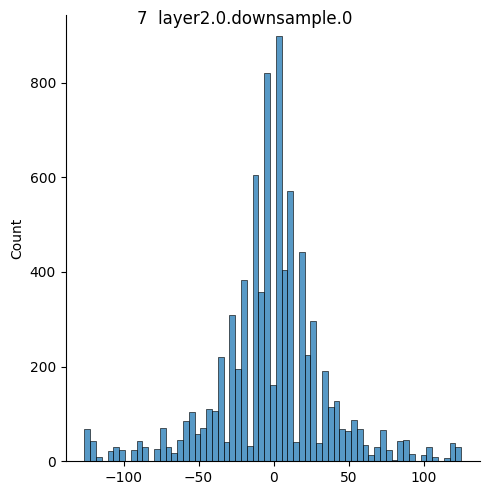
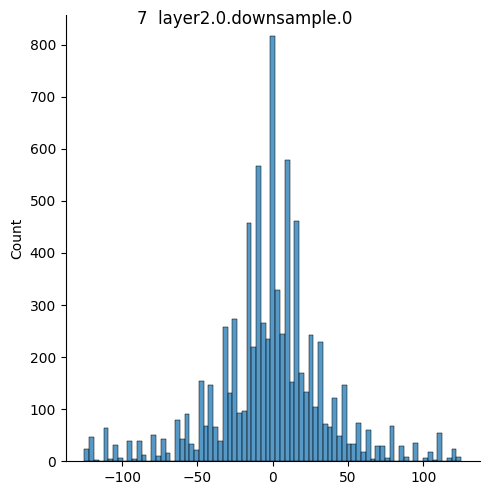
weight distribution of new method

Changed region(s): [[0.0613, 0.0303, 0.9509, 0.9697]]

diff --git a/software/util.py b/software/util.py
@@ -157,10 +157,7 @@ def bitFlip_signMagnitude(group_q, group_qb, w_bitwidth=8, zero_column_required=
     
     # no need to prune
     if zero_column_required <= 0: 
-        if return_binary:
-            return group_binary
-        else:
-            return group_q
+        return group_q
     
     # continue
     # test_until is a pointer to specify which column to test until
@@ -197,7 +194,7 @@ def bitFlip_signMagnitude(group_q, group_qb, w_bitwidth=8, zero_column_required=
     return group_int_new
 
 
-def bitFlip_twosComplement(group_q, group_qb, w_bitwidth=8, zero_column_required=4, h_distance_target=0):
+def bitFlip_twosComplement(group_q, group_qb, group_qb_bitWave, w_bitwidth=8, zero_column_required=4, h_distance_target=0):
     '''
     Apply bit-flip to a group of quantized weights in 2's complement format
     '''
@@ -244,8 +241,9 @@ def bitFlip_twosComplement(group_q, group_qb, w_bitwidth=8, zero_column_required
     if test_bitVert_strategy:
         # prune columns [prune_until:], we should test columns [prune_until:] to minimize MSE
         # since the value should be the same for all weight columns [prune_until:] in a group, the value can be adjusted arbitrarily
+        group_binary_bitVert = group_binary.clone()
         if prune_until == 1:
-            int_test_bitVert = twosComplement_to_int(group_binary, w_bitwidth=w_bitwidth)
+            int_test_bitVert = group_q.clone()
             int_test_new_bitVert = torch.zeros_like(int_test_bitVert)
             error_bitVert = 1e7
             for value in range(-2**(w_bitwidth-2), 2**(w_bitwidth-2)):
@@ -259,7 +257,7 @@ def bitFlip_twosComplement(group_q, group_qb, w_bitwidth=8, zero_column_required
                     break
             group_int_new = int_test_new_bitVert
         else:
-            column_test = group_binary[prune_until:]
+            column_test = group_binary_bitVert[prune_until:]
             int_test_bitVert = binary_to_int(column_test, w_bitwidth=w_bitwidth-prune_until)
             int_test_new_bitVert = torch.zeros_like(int_test_bitVert)
             error_bitVert = 1e7
@@ -275,42 +273,44 @@ def bitFlip_twosComplement(group_q, group_qb, w_bitwidth=8, zero_column_required
                 else:
                     break
 
+    error_bitWave = 0
     if test_bitWave_strategy:
         zero_column_idx = [idx if idx < prune_until else 0 for idx in zero_column_idx]
         test_until = max(zero_column_idx) + 1
-        group_binary = int_to_signMagnitude(group_q, w_bitwidth=w_bitwidth)
+        group_binary_bitWave = group_qb_bitWave.clone()
     
         # prune columns [prune_until:], we should test columns [test_until:] to minimize MSE
         # since the columns between test_until and prune_until can be adjusted arbitrarily as long as [prune_until:] are all zero
-        column_test = group_binary[test_until:]
+        column_test = group_binary_bitWave[test_until:]
         int_test_bitWave = binary_to_int(column_test, w_bitwidth=w_bitwidth-test_until)
         #print(prune_until, test_until)
         int_test_new_bitWave = torch.zeros_like(int_test_bitWave)
 
         for i, value in enumerate(int_test_bitWave.tolist()):
             new_value = 0
-            error_bitWave = 1e7
+            error_single_value = 1e7
             for n in range(2**(prune_until-test_until)):
                 tmp_value = n * 2.**(w_bitwidth-prune_until)
                 new_error = ((tmp_value - value)**2)
                 #print('new error', new_error)
-                if new_error < error_bitWave:
+                if new_error < error_single_value:
                     #print(tmp_value)
-                    error_bitWave = new_error
+                    error_single_value = new_error
                     #print(error)
                     new_value = tmp_value
                 else: 
+                    error_bitWave += error_single_value
                     break
             int_test_new_bitWave[i] = new_value
     
-    if error_bitVert < error_bitWave:
+    if (error_bitVert < error_bitWave) or (not test_bitWave_strategy):
         column_test_new = int_to_binary(int_test_new_bitVert, w_bitwidth=w_bitwidth-prune_until)
-        group_binary[prune_until:] = column_test_new
-        group_int_new = twosComplement_to_int(group_binary, w_bitwidth=w_bitwidth)
+        group_binary_bitVert[prune_until:] = column_test_new
+        group_int_new = twosComplement_to_int(group_binary_bitVert, w_bitwidth=w_bitwidth)
     else:
         column_test_new = int_to_binary(int_test_new_bitWave, w_bitwidth=w_bitwidth-test_until)
-        group_binary[test_until:] = column_test_new
-        group_int_new = twosComplement_to_int(group_binary, w_bitwidth=w_bitwidth)
+        group_binary_bitWave[test_until:] = column_test_new
+        group_int_new = signMagnitude_to_int(group_binary_bitWave, w_bitwidth=w_bitwidth)
 
     return group_int_new
     
@@ -356,7 +356,9 @@ def process_signMagnitude_fc(wq_int, w_bitwidth=8, group_size=16, pruned_column_
 def process_twosComplement_conv(wq_int, w_bitwidth=8, group_size=16, pruned_column_num=4, 
                                 device='cpu', h_distance_target=0):
     wqb_twosComplement = int_to_twosComplement(wq_int, w_bitwidth=w_bitwidth, device=device)
+    wqb_signMagnitude  = int_to_signMagnitude(wq_int, w_bitwidth=w_bitwidth, device=device)
     wqb_twosComplement = wqb_twosComplement.to('cpu')
+    wqb_signMagnitude  = wqb_signMagnitude.to('cpu')
     wq_int_new = torch.zeros_like(wq_int)
     K, C, W, H = wq_int.shape # output channel, input channel, kernel width, kernel height
     if C < group_size:
@@ -368,7 +370,8 @@ def process_twosComplement_conv(wq_int, w_bitwidth=8, group_size=16, pruned_colu
                 for c in range(C // group_size):  # input channel 
                     group_q = wq_int[k, c*group_size:(c+1)*group_size, w, h]
                     group_qb = wqb_twosComplement[:, k, c*group_size:(c+1)*group_size, w, h]
-                    group_q_new = bitFlip_twosComplement(group_q, group_qb, w_bitwidth=w_bitwidth,
+                    group_qb_bitWave = wqb_signMagnitude[:, k, c*group_size:(c+1)*group_size, w, h]
+                    group_q_new = bitFlip_twosComplement(group_q, group_qb, group_qb_bitWave, w_bitwidth=w_bitwidth,
                                                          zero_column_required=pruned_column_num, 
                                                          h_distance_target=h_distance_target)
                     wq_int_new[k, c*group_size:(c+1)*group_size, w, h] = group_q_new
@@ -378,7 +381,9 @@ def process_twosComplement_conv(wq_int, w_bitwidth=8, group_size=16, pruned_colu
 def process_twosComplement_fc(wq_int, w_bitwidth=8, group_size=16, pruned_column_num=4, 
                               device='cpu', h_distance_target=0):
     wqb_twosComplement = int_to_twosComplement(wq_int, w_bitwidth=w_bitwidth, device=device)
+    wqb_signMagnitude  = int_to_signMagnitude(wq_int, w_bitwidth=w_bitwidth, device=device)
     wqb_twosComplement = wqb_twosComplement.to('cpu')
+    wqb_signMagnitude  = wqb_signMagnitude.to('cpu')
     wq_int_new = torch.zeros_like(wq_int)
     K, C = wq_int.shape # output channel, input channel, kernel width, kernel height
     if C < group_size:
@@ -388,7 +393,8 @@ def process_twosComplement_fc(wq_int, w_bitwidth=8, group_size=16, pruned_column
         for c in range(C // group_size):  # input channel 
             group_q = wq_int[k, c*group_size:(c+1)*group_size]
             group_qb = wqb_twosComplement[:, k, c*group_size:(c+1)*group_size]            
-            group_q_new = bitFlip_twosComplement(group_q, group_qb, w_bitwidth=w_bitwidth,
+            group_qb_bitWave = wqb_signMagnitude[:, k, c*group_size:(c+1)*group_size]
+            group_q_new = bitFlip_twosComplement(group_q, group_qb, group_qb_bitWave, w_bitwidth=w_bitwidth,
                                                  zero_column_required=pruned_column_num,
                                                  h_distance_target=h_distance_target)
             wq_int_new[k, c*group_size:(c+1)*group_size] = group_q_new

diff --git a/software/resnet18_bit_prune.py b/software/resnet18_bit_prune.py
@@ -24,7 +24,7 @@ w_bitwidth = 8
 
 def main():
     device = torch.device("cuda" if torch.cuda.is_available() else "cpu")
-    hamming_distance = 0.5
+    hamming_distance = 1.5
     for N in range(4, 5):
         pruned_column_num = N
         file = open(f'resnet18_loss_report_g{GROUP_SIZE}_h{math.floor(hamming_distance)}_c{pruned_column_num}.txt', 'w')
@@ -33,7 +33,7 @@ def main():
             weight_test = weight_list[i]
             print(f'Layer {name_list[i]}')
             file.writelines(f'Layer {name_list[i]} \n')
-            print(weight_test.unique())
+            #print(weight_test.unique())
             for func in [0, 1]:
                 if func == 0:
                     format = 'Sign Magnitude'
@@ -43,7 +43,7 @@ def main():
                     elif len(weight_test.shape) == 2:
                         weight_test_new = process_signMagnitude_fc(weight_test, w_bitwidth=w_bitwidth, group_size=GROUP_SIZE, 
                                                                 pruned_column_num=pruned_column_num, device=device)
-                    print(weight_test_new.unique())
+                    #print(weight_test_new.unique())
                 else:
                     format = '2s Complement'
                     if len(weight_test.shape) == 4:
@@ -54,7 +54,7 @@ def main():
                         weight_test_new = process_twosComplement_fc(weight_test, w_bitwidth=w_bitwidth, group_size=GROUP_SIZE, 
                                                                     pruned_column_num=pruned_column_num, device=device,
                                                                     h_distance_target=hamming_distance)
-                    print(weight_test_new.unique())
+                    #print(weight_test_new.unique())
                 weight_original = weight_test.to(torch.float)
                 weight_new = weight_test_new.to(torch.float)
 

diff --git a/software/resnet50_param_count.py b/software/resnet50_param_count.py
@@ -1,0 +1,46 @@
+import torch
+import torch.nn as nn
+import torchvision
+import numpy as np
+from util import *
+
+from torchvision.models.quantization import ResNet50_QuantizedWeights
+model = torchvision.models.quantization.resnet50(weights = ResNet50_QuantizedWeights, quantize=True)
+
+model = model.cpu()
+
+weight_list = []
+name_list   = []
+
+for n, m in model.named_modules():
+    if hasattr(m, "weight"):
+        w = m.weight()
+        wint = torch.int_repr(w)
+        weight_list.append(wint)
+        name_list.append(n)
+
+GROUP_SIZE = 16
+w_bitwidth = 8
+
+
+def main():
+    total_param = 0
+
+    for i in range(len(weight_list)):
+        weight_test = weight_list[i]
+        size = list(weight_test.size())
+        num_param = torch.prod(torch.Tensor(size))
+        total_param += num_param
+    print(f'Total params:  {total_param} \n')
+
+    for i in range(len(weight_list)):
+        weight_test = weight_list[i]
+        size = list(weight_test.size())
+        num_param = torch.prod(torch.Tensor(size))
+        print(f'Layer {name_list[i]}')
+        print(f'# of params: {num_param}')
+        print(f'% of params: {num_param / total_param}\n')
+
+                    
+if __name__ == "__main__":
+    main()

diff --git a/software/resnet18_bit_prune_plot.py b/software/resnet18_bit_prune_plot.py
@@ -28,7 +28,7 @@ for n, m in model.named_modules():
 GROUP_SIZE = 16
 w_bitwidth = 8
 
-loss = 1
+loss = 0
 if loss == 0:
     metric = 'MSE'
 else: 
@@ -36,7 +36,7 @@ else:
 
 def main():
     device = torch.device("cuda" if torch.cuda.is_available() else "cpu")
-    hamming_distance = 2.5
+    hamming_distance = 1.5
     for N in range(4, 5):
         pruned_column_num = N
         file = open(f'resnet18_loss_report_g{GROUP_SIZE}_h{math.floor(hamming_distance)}_c{pruned_column_num}.txt', 'w')
